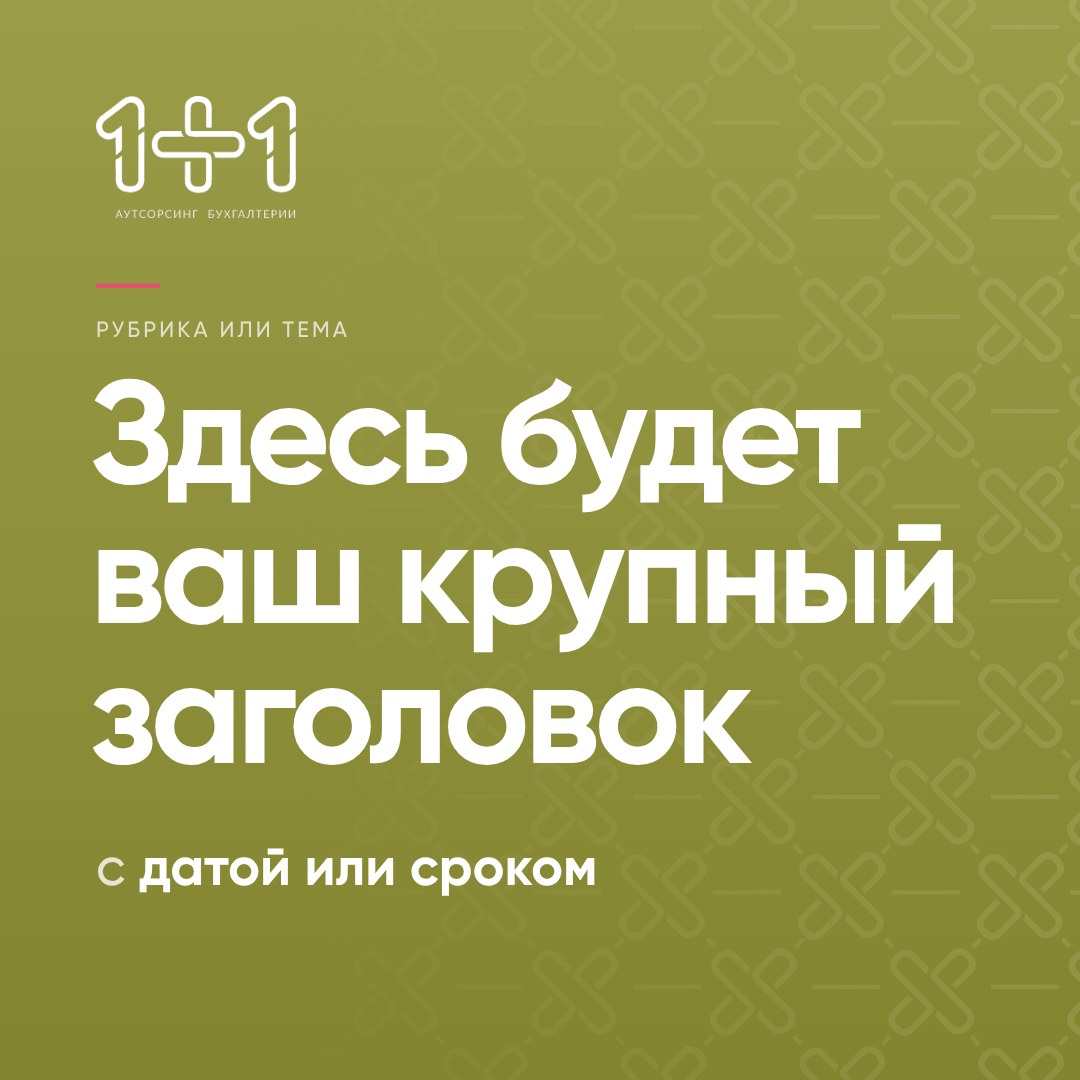
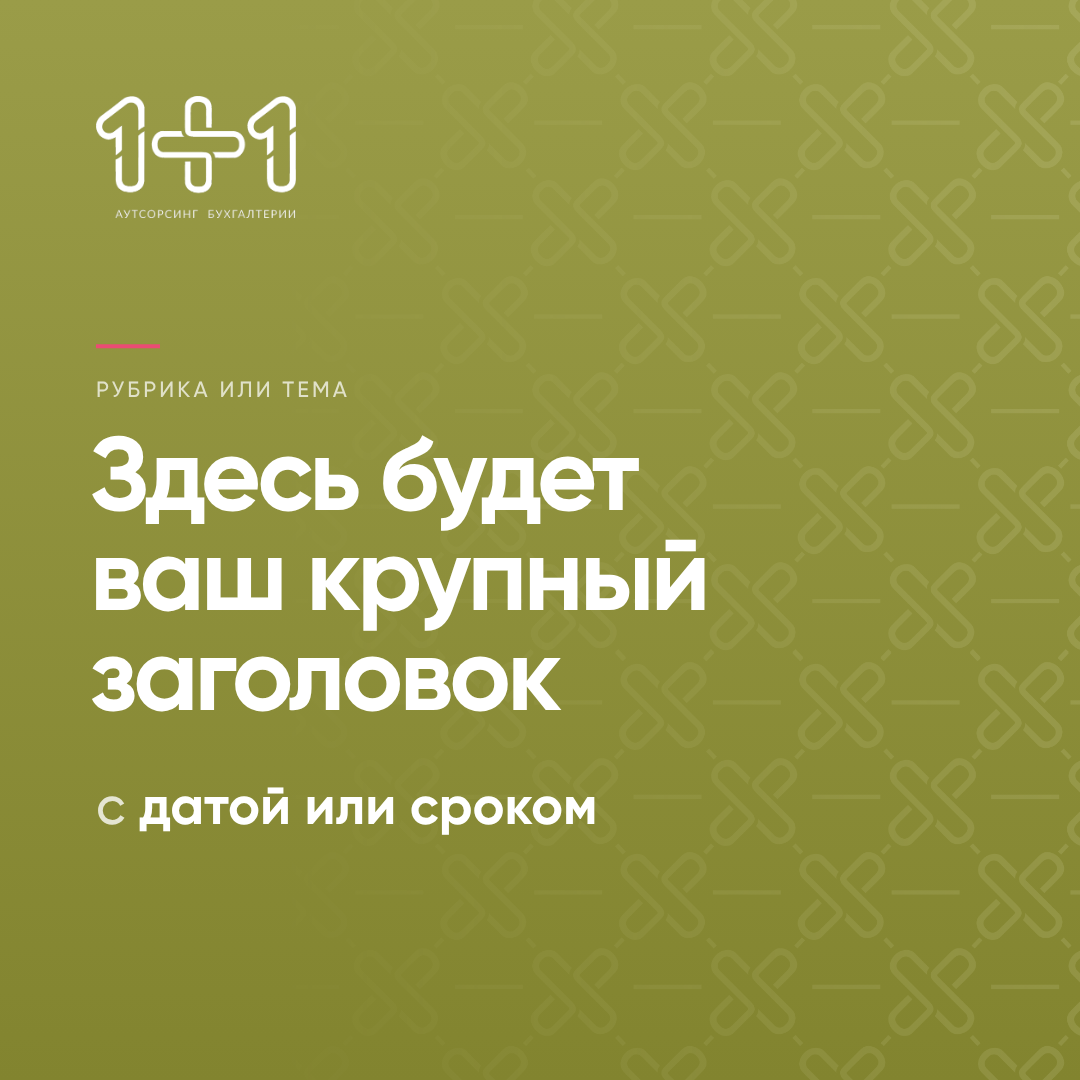
Шаблон V15 (типографика с меткой) по эталону support-e4, обновлены индекс и инструкция
Claude-Session: https://claude.ai/code/session_01VZ7Hrkur6jxoGp5f6QSiLJ

Changed region(s): [[0.0917, 0.2444, 0.8861, 0.825], [0.275, 0.275, 0.3056, 0.3056], [0.2139, 0.275, 0.2444, 0.3056]]

diff --git a/templates/V15-typographic.html b/templates/V15-typographic.html
@@ -1,0 +1,11 @@
+<!doctype html><html lang="ru"><head><meta charset="utf-8"><title>V15 · Типографика с меткой</title>
+<link rel="stylesheet" href="base.css">
+<style>.mark{position:absolute;right:84px;bottom:84px;width:190px;height:304px;background:#D2BE8C;opacity:.85;-webkit-mask:var(--mark) center/contain no-repeat;mask:var(--mark) center/contain no-repeat}
+.text-top{top:250px}
+.s{margin-top:36px;color:var(--stone);font-weight:500}</style></head><body>
+<div class="canvas paper"><div class="mark" data-slot="mark" style="--mark:url(../assets/icons/pin.svg)"></div>
+<img class="logo" src="../assets/logo-full.png" alt="">
+<div class="text-top"><div class="dash"></div>
+<div class="h-m" data-slot="title" data-fit data-sizes="104,80" data-max-lines="4" style="font-weight:700;letter-spacing:-.035em;line-height:1">Точечная<br><em class="acc">поддержка</em><br>бизнеса в<br>Алтайском крае</div>
+<p class="sub s" data-slot="sub" data-fit data-sizes="40,36" data-max-lines="2">Гранты, субсидии, соцконтракты,<br>льготные займы, поручительства</p></div></div>
+<script src="fit.js"></script></body></html>

diff --git a/templates/INDEX.md b/templates/INDEX.md
@@ -26,6 +26,7 @@
 | V9 | `V09-case` | кейс клиента, эксперт | `eyebrow`; `title` до 4 строк в 520 px, 52·46·40; `name`; `role`; `portrait` | PNG-вырезка эксперта (`assets/experts/`) |
 | V10 | `V10-portrait` | цитата или мысль эксперта | `eyebrow`; `title` до 5 строк в 424 px, 56·50·44; `name`; `role`; `photo` 520×1080 | портрет во весь рост или по пояс (`assets/director/`, `assets/team/`) |
 | V11 | `V11-photo-frame` | мягкая тема, фото в рамке | `title` до 3 строк, 62·56·50; `photo` 888×470; `mark` | любое фото, кроп по лицам; водяной знак по теме |
+| V15 | `V15-typographic` | внешняя тема (меры поддержки, закон, новость региона), без фото команды | `title` до 4 строк, 104·80, одно слово `acc`; `sub` до 2 строк, 40·36; `mark` метка 190×304 справа внизу | светлый, метка цвета шампань (`icons/pin.svg` или `marks/*`, подбирается по теме) |
 | U2 | `U2-urgent-air-green` | срочные новости, эфир | `title` до 3 строк, 146·104·80; `date`; рубрика фиксирована | графит, зелёная рубрика |
 | U3 | `U3-urgent-date-chip` | срочная новость со сроком | `date` 1 строка, 196·170·140; `year`; `title` до 2 строк, 66·58·50 | светлый, плашка-рубрика |
 | U5 | `U5-urgent-newspaper` | срочные новости, газета | `title` до 3 строк, 132·104·80; `date` | светлый |

diff --git a/docs/claude-design-readme.md b/docs/claude-design-readme.md
@@ -22,6 +22,7 @@
 |---|---|
 | тема с людьми, заголовок + пояснение, есть кадр с чистой стеной | **V1** |
 | вопрос или фраза, которую нужно «услышать» | **V13** (фото) или **V14** (графит) |
+| внешняя тема: меры поддержки, закон, новость региона (не про услуги 1+1) | **V15** (типографика с меткой), без фото команды |
 | закон, новость, событие, дата | **V2** (графит) или **V3** (зелёный, редко) |
 | срочная новость | **U2**, **U3** (если есть срок), **U5**, **U6** |
 | команда, найм, обучение | **V6** |
